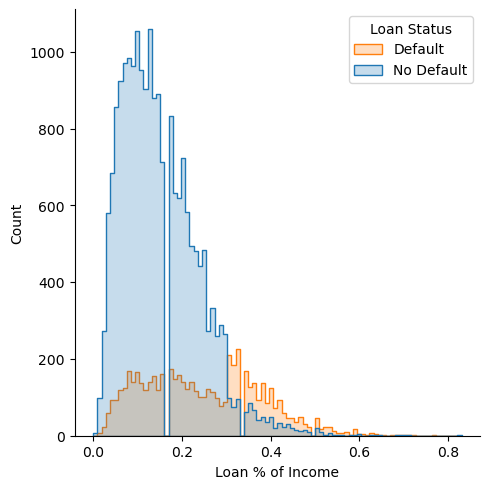
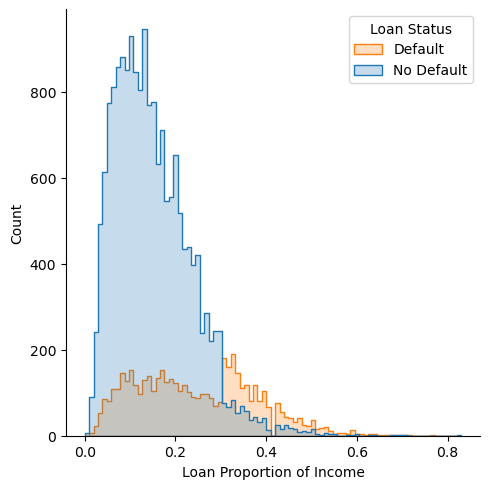
minor chart change, decisionmaking

diff --git a/docs/posts/decision-making/DecisionMaking.html b/docs/posts/decision-making/DecisionMaking.html
@@ -337,7 +337,7 @@ background-size: cover;
 </div>
 </div>
 <p>The above table helps me get a sense of the variables in the dataset and their types.</p>
-<div id="cell-7" class="cell" data-execution_count="131">
+<div id="cell-7" class="cell" data-execution_count="146">
 <div class="sourceCode cell-code" id="cb3"><pre class="sourceCode python code-with-copy"><code class="sourceCode python"><span id="cb3-1"><a href="#cb3-1" aria-hidden="true" tabindex="-1"></a><span class="im">import</span> seaborn <span class="im">as</span> sns</span>
 <span id="cb3-2"><a href="#cb3-2" aria-hidden="true" tabindex="-1"></a><span class="im">import</span> numpy <span class="im">as</span> np</span>
 <span id="cb3-3"><a href="#cb3-3" aria-hidden="true" tabindex="-1"></a><span class="im">import</span> matplotlib.pyplot <span class="im">as</span> plt</span>
@@ -345,7 +345,7 @@ background-size: cover;
 <span id="cb3-5"><a href="#cb3-5" aria-hidden="true" tabindex="-1"></a></span>
 <span id="cb3-6"><a href="#cb3-6" aria-hidden="true" tabindex="-1"></a>g <span class="op">=</span> sns.displot(df_train, x<span class="op">=</span><span class="st">"loan_percent_income"</span>, hue<span class="op">=</span><span class="st">"loan_status"</span>, element<span class="op">=</span><span class="st">"step"</span>, legend<span class="op">=</span><span class="va">False</span>)</span>
 <span id="cb3-7"><a href="#cb3-7" aria-hidden="true" tabindex="-1"></a>plt.legend(title<span class="op">=</span><span class="st">'Loan Status'</span>, loc<span class="op">=</span><span class="st">'upper right'</span>, labels<span class="op">=</span>[<span class="st">'Default'</span>, <span class="st">'No Default'</span>])</span>
-<span id="cb3-8"><a href="#cb3-8" aria-hidden="true" tabindex="-1"></a>g.<span class="bu">set</span>(xlabel<span class="op">=</span><span class="st">"Loan </span><span class="sc">% o</span><span class="st">f Income"</span>)</span>
+<span id="cb3-8"><a href="#cb3-8" aria-hidden="true" tabindex="-1"></a>g.<span class="bu">set</span>(xlabel<span class="op">=</span><span class="st">"Loan Proportion of Income"</span>)</span>
 <span id="cb3-9"><a href="#cb3-9" aria-hidden="true" tabindex="-1"></a>plt.show(g)</span></code><button title="Copy to Clipboard" class="code-copy-button"><i class="bi"></i></button></pre></div>
 <div class="cell-output cell-output-display">
 <div>

diff --git a/docs/index.html b/docs/index.html
@@ -223,7 +223,7 @@ window.Quarto = {
 
 <div class="quarto-listing quarto-listing-container-default" id="listing-listing">
 <div class="list quarto-listing-default">
-<div class="quarto-post image-right" data-index="0" data-listing-date-sort="1711771200000" data-listing-file-modified-sort="1711841776113" data-listing-date-modified-sort="NaN" data-listing-reading-time-sort="9" data-listing-word-count-sort="1764">
+<div class="quarto-post image-right" data-index="0" data-listing-date-sort="1711771200000" data-listing-file-modified-sort="1711841954038" data-listing-date-modified-sort="NaN" data-listing-reading-time-sort="9" data-listing-word-count-sort="1764">
 <div class="thumbnail">
 <p><a href="./posts/decision-making/DecisionMaking.html" class="no-external"></a></p><a href="./posts/decision-making/DecisionMaking.html" class="no-external">
 <p class="card-img-top"><img src="posts\decision-making\DecisionMaking_files\figure-html\cell-4-output-1.png"  class="thumbnail-image card-img"/></p>
